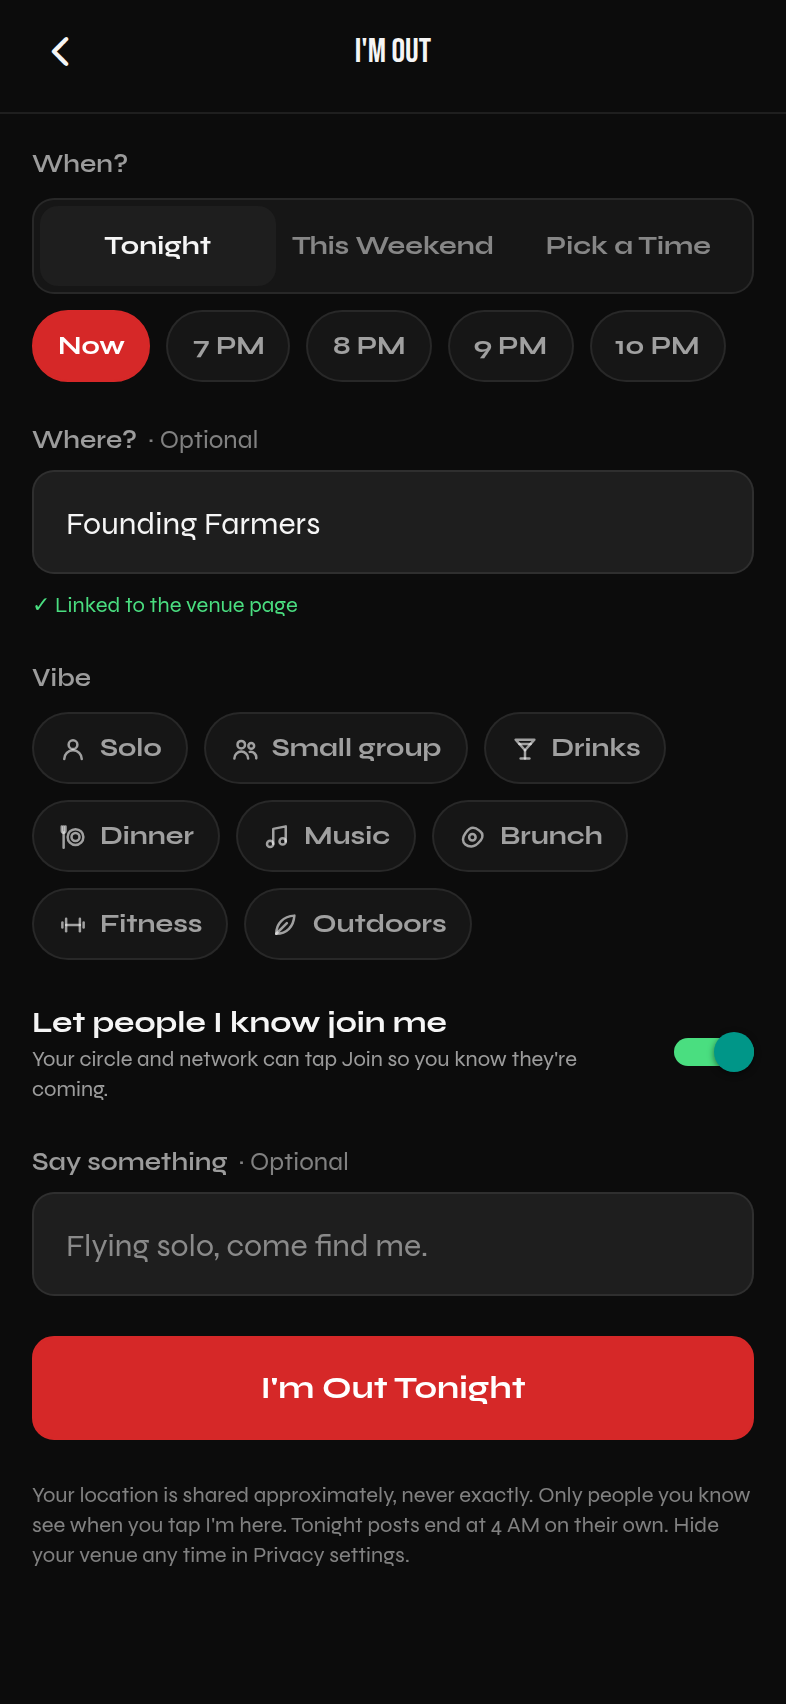
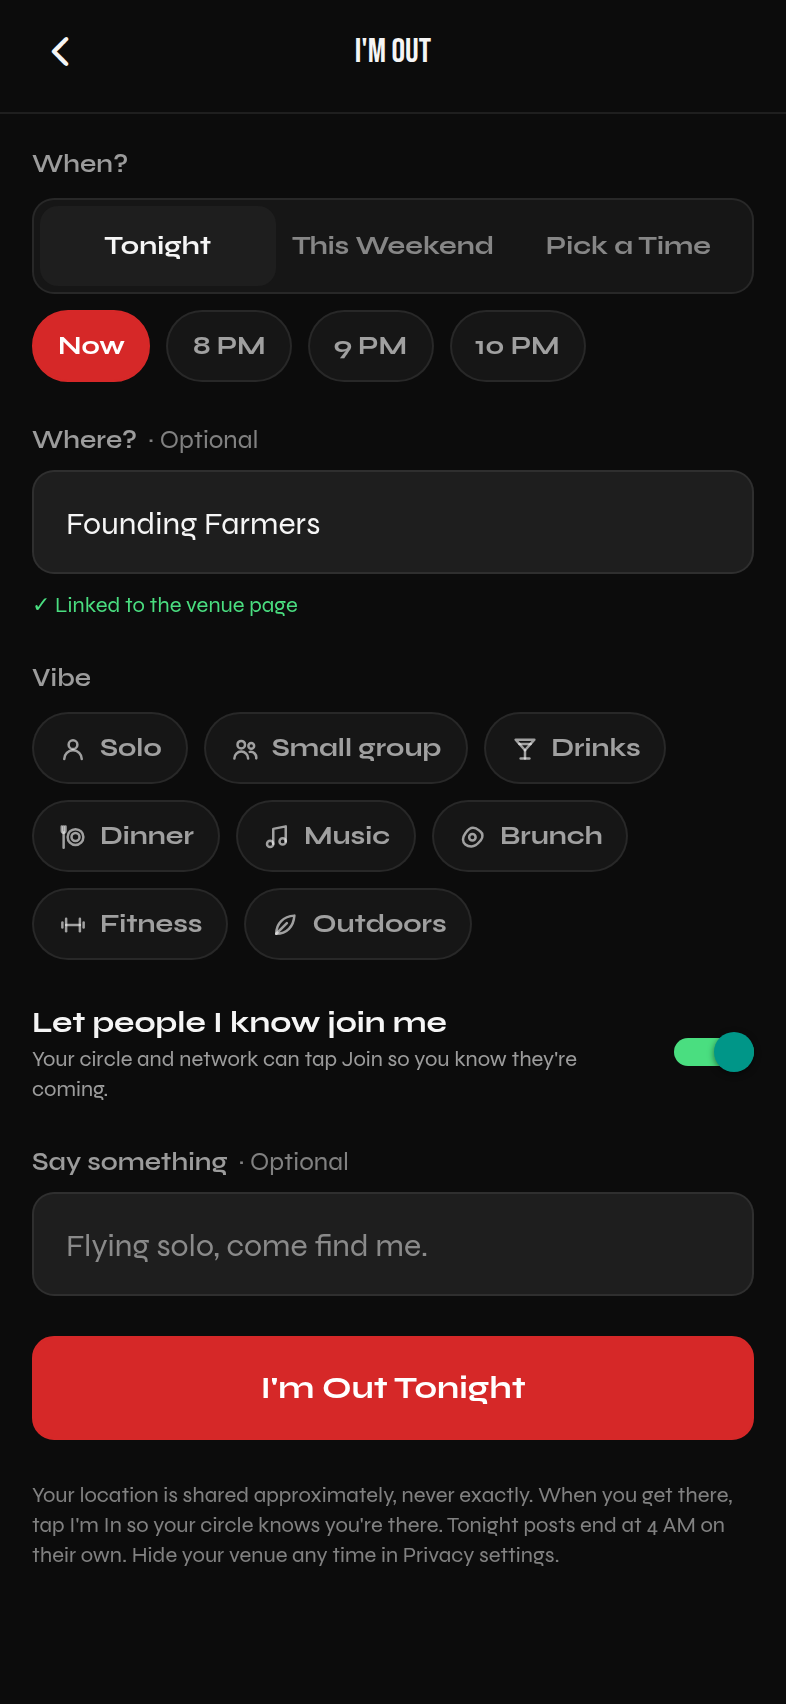
I'm In at a place: drop heading out/home, circle-only by default
- Post your night out, tap I'm In when you arrive; Still in keeps it on,
  it turns off on its own; Edit plans removes it
- Who sees "In now": My Circle (default) or My Network; never strangers,
  only the place, never an exact location (migration 016 + 2 tests)
- Joining: "Maya is joining you"

Claude-Session: https://claude.ai/code/session_01WptbkRHnsyyhfuY3uhsWZK

diff --git a/src/components/tonight/GoingOutList.tsx b/src/components/tonight/GoingOutList.tsx
@@ -2,29 +2,29 @@ import { useRouter } from 'expo-router';
 import { Pressable, View } from 'react-native';
 
 import { PersonRow } from '@/components/circles/PersonRow';
-import { AppText, Badge, Button, Card, GlyphTile } from '@/components/ui';
+import { AppText, Badge, Button, Card, Chip, GlyphTile } from '@/components/ui';
 import { vibeLabel, type Company, type FeedEvent, type FeedPerson } from '@/features/tonight/api';
 import { clockTime, dayTime } from '@/lib/time';
 import { useTheme } from '@/theme';
 
 const degreeLabel = (d: number) => (d === 1 ? '1st' : d === 2 ? '2nd' : null);
 
-/** "Here now · since 9:10 PM" with a live dot. */
+/** "In now · since 9:10 PM" with a live dot. */
 export function HereNow({ since, compact }: { since: string; compact?: boolean }) {
   const t = useTheme();
   return (
     <View style={{ flexDirection: 'row', alignItems: 'center', gap: 6 }}>
       <View style={{ width: 8, height: 8, borderRadius: 4, backgroundColor: t.colors.trust }} />
       <AppText variant="caption" weight="bold" tone="trust">
-        {compact ? 'Here now' : `Here now · since ${clockTime(since)}`}
+        {compact ? 'In now' : `In now · since ${clockTime(since)}`}
       </AppText>
     </View>
   );
 }
 
 /**
- * Someone going out. Shows where, when and vibe, plus "Here now" when they've
- * arrived. People you know can tap Join ("I'm coming").
+ * Someone going out. Shows where, when and vibe, plus "In now" once they've
+ * tapped I'm In at the place. People you know can tap Join.
  */
 export function GoingOutPersonRow({
   person,
@@ -62,7 +62,7 @@ export function GoingOutPersonRow({
             {person.here_since ? <HereNow since={person.here_since} /> : null}
             {company > 0 ? (
               <AppText variant="caption" tone="muted">
-                {company} heading there
+                {company} joining
               </AppText>
             ) : null}
           </View>
@@ -71,7 +71,7 @@ export function GoingOutPersonRow({
       right={
         canJoin ? (
           person.my_join ? (
-            <Button label="Heading" size="md" variant="trust" onPress={() => onJoin(person, null)} accessibilityHint="Tap to cancel" />
+            <Button label="Joining" size="md" variant="trust" onPress={() => onJoin(person, null)} accessibilityHint="Tap to cancel" />
           ) : (
             <Button label="Join" size="md" variant="secondary" onPress={() => onJoin(person, 'heading')} />
           )
@@ -85,36 +85,42 @@ export function GoingOutPersonRow({
   );
 }
 
-/** Your own night out: heading out → here now → heading home, and who's coming. */
+/**
+ * Your night out. Tap I'm In when you get there: the people you choose (your
+ * circle, or your network) see "In now". It turns off on its own after a few
+ * hours; Still in keeps it on.
+ */
 export function MyNightOut({
   me,
   company,
   minutesLeft,
   busy,
-  onHere,
+  onIn,
   onEdit,
-  onEnd,
+  onAudience,
 }: {
   me: FeedPerson;
   company: Company[];
-  /** Minutes until "Here now" lapses (computed by the screen when it loads). */
+  /** Minutes until "In now" turns off (computed by the screen when it loads). */
   minutesLeft: number | null;
   busy: boolean;
-  onHere: () => void;
+  onIn: () => void;
   onEdit: () => void;
-  onEnd: () => void;
+  onAudience: (a: 'circle' | 'network') => void;
 }) {
   const t = useTheme();
   const live = !!me.here_since;
-  const heading = company.filter((c) => c.status === 'heading');
-  const here = company.filter((c) => c.status === 'here');
+  const names = (list: Company[]) => list.map((c) => c.display_name.split(' ')[0]).join(', ');
+  const joining = company.filter((c) => c.status === 'heading');
+  const inToo = company.filter((c) => c.status === 'here');
+  const audience = me.here_audience ?? 'circle';
   return (
     <Card accent={live ? 'trust' : 'primary'}>
       <View style={{ gap: t.space[3] }}>
         <View style={{ flexDirection: 'row', alignItems: 'center', gap: t.space[3] }}>
-          <GlyphTile name={live ? 'live' : 'heading'} size={44} tone={live ? 'trust' : 'primary'} />
+          <GlyphTile name={live ? 'live' : 'moon'} size={44} tone={live ? 'trust' : 'primary'} />
           <View style={{ flex: 1 }}>
-            <AppText weight="bold">{live ? "You're here" : "You're heading out"}</AppText>
+            <AppText weight="bold">{live ? "You're in" : 'Your night out'}</AppText>
             <AppText variant="small" tone="muted" numberOfLines={2}>
               {[me.place, live && me.here_since ? `since ${clockTime(me.here_since)}` : clockTime(me.starts_at)].filter(Boolean).join(' · ')}
             </AppText>
@@ -122,28 +128,30 @@ export function MyNightOut({
         </View>
         {company.length ? (
           <AppText variant="small" tone="trust" weight="bold">
-            {[
-              heading.length ? `${heading.map((c) => c.display_name.split(' ')[0]).join(', ')} heading your way` : null,
-              here.length ? `${here.map((c) => c.display_name.split(' ')[0]).join(', ')} here too` : null,
-            ]
+            {[joining.length ? `${names(joining)} ${joining.length === 1 ? 'is' : 'are'} joining you` : null, inToo.length ? `${names(inToo)} in too` : null]
               .filter(Boolean)
               .join(' · ')}
           </AppText>
-        ) : (
-          <AppText variant="caption" tone="subtle">
-            {me.open_to_join ? 'Your circle and network can tap Join to let you know they’re coming.' : 'Joining is off for tonight.'}
-          </AppText>
-        )}
+        ) : null}
         {live && minutesLeft != null && minutesLeft < 45 ? (
           <AppText variant="caption" tone="sponsored">
-            &quot;Here now&quot; ends in {Math.max(minutesLeft, 0)} min. Still out? Tap Still here.
+            &quot;In now&quot; turns off in {Math.max(minutesLeft, 0)} min. Still there? Tap Still in.
           </AppText>
         ) : null}
-        <Button label={live ? 'Still here' : "I'm here"} size="md" variant="trust" onPress={onHere} loading={busy} />
-        <View style={{ flexDirection: 'row', gap: t.space[2] }}>
-          <Button label="Edit" size="md" variant="secondary" style={{ flex: 1 }} onPress={onEdit} disabled={busy} />
-          <Button label="Heading home" size="md" variant="secondary" style={{ flex: 1 }} onPress={onEnd} disabled={busy} />
+        <Button label={live ? 'Still in' : "I'm In"} size="md" variant="trust" onPress={onIn} loading={busy} />
+        <View style={{ gap: t.space[2] }}>
+          <AppText variant="caption" tone="subtle">
+            {live ? 'Who sees you’re in' : 'When you tap I’m In, who sees it'}
+          </AppText>
+          <View style={{ flexDirection: 'row', gap: t.space[2] }}>
+            <Chip label="My Circle" selected={audience === 'circle'} onPress={() => onAudience('circle')} />
+            <Chip label="My Network" selected={audience === 'network'} onPress={() => onAudience('network')} />
+          </View>
+          <AppText variant="caption" tone="subtle">
+            Only the place is shown, never your exact location. Strangers never see it.
+          </AppText>
         </View>
+        <Button label="Edit plans" size="md" variant="secondary" onPress={onEdit} disabled={busy} />
       </View>
     </Card>
   );

diff --git a/src/types/database.ts b/src/types/database.ts
@@ -393,13 +393,13 @@ isOneToOne: false
                   ]
                 },"going_out_posts": {
                   Row: {
-                    "approx_location": unknown,"arrived_at": string | null,"created_at": string,"event_id": number | null,"expires_at": string,"id": number,"is_hosting": boolean,"is_priority": boolean,"live_until": string | null,"note": string | null,"open_to_join": boolean,"place_text": string | null,"starts_at": string,"user_id": string,"venue_id": number | null,"vibes": (string)[],"when_kind": Database["public"]['Enums']["going_out_when"]
+                    "approx_location": unknown,"arrived_at": string | null,"created_at": string,"event_id": number | null,"expires_at": string,"here_audience": string,"id": number,"is_hosting": boolean,"is_priority": boolean,"live_until": string | null,"note": string | null,"open_to_join": boolean,"place_text": string | null,"starts_at": string,"user_id": string,"venue_id": number | null,"vibes": (string)[],"when_kind": Database["public"]['Enums']["going_out_when"]
                   }
                   Insert: {
-                    "approx_location"?: unknown,"arrived_at"?: string | null,"created_at"?: string,"event_id"?: number | null,"expires_at": string,"id"?: number,"is_hosting"?: boolean,"is_priority"?: boolean,"live_until"?: string | null,"note"?: string | null,"open_to_join"?: boolean,"place_text"?: string | null,"starts_at": string,"user_id": string,"venue_id"?: number | null,"vibes"?: (string)[],"when_kind": Database["public"]['Enums']["going_out_when"]
+                    "approx_location"?: unknown,"arrived_at"?: string | null,"created_at"?: string,"event_id"?: number | null,"expires_at": string,"here_audience"?: string,"id"?: number,"is_hosting"?: boolean,"is_priority"?: boolean,"live_until"?: string | null,"note"?: string | null,"open_to_join"?: boolean,"place_text"?: string | null,"starts_at": string,"user_id": string,"venue_id"?: number | null,"vibes"?: (string)[],"when_kind": Database["public"]['Enums']["going_out_when"]
                   }
                   Update: {
-                    "approx_location"?: unknown,"arrived_at"?: string | null,"created_at"?: string,"event_id"?: number | null,"expires_at"?: string,"id"?: number,"is_hosting"?: boolean,"is_priority"?: boolean,"live_until"?: string | null,"note"?: string | null,"open_to_join"?: boolean,"place_text"?: string | null,"starts_at"?: string,"user_id"?: string,"venue_id"?: number | null,"vibes"?: (string)[],"when_kind"?: Database["public"]['Enums']["going_out_when"]
+                    "approx_location"?: unknown,"arrived_at"?: string | null,"created_at"?: string,"event_id"?: number | null,"expires_at"?: string,"here_audience"?: string,"id"?: number,"is_hosting"?: boolean,"is_priority"?: boolean,"live_until"?: string | null,"note"?: string | null,"open_to_join"?: boolean,"place_text"?: string | null,"starts_at"?: string,"user_id"?: string,"venue_id"?: number | null,"vibes"?: (string)[],"when_kind"?: Database["public"]['Enums']["going_out_when"]
                   }
                   Relationships: [
                     {
@@ -1460,6 +1460,9 @@ isOneToOne: false
                            },
 "set_checkin_interval":
 { Args: { "p_minutes": number }; Returns: undefined
+                           },
+"set_here_audience":
+{ Args: { "p_audience": string,"p_post": number }; Returns: undefined
                            },
 "set_open_to_join":
 { Args: { "p_open": boolean,"p_post": number }; Returns: undefined

diff --git a/src/app/(app)/(tabs)/tonight.tsx b/src/app/(app)/(tabs)/tonight.tsx
@@ -10,14 +10,13 @@ import { fetchGroups, type GroupsOverview } from '@/features/circles/api';
 import { useApproxLocation } from '@/features/location/useApproxLocation';
 import { usePlan } from '@/features/plan/usePlan';
 import {
-  deleteGoingOut,
-  endLive,
   fetchCompany,
   fetchGoingOut,
   fetchMyGroupEvents,
   imHere,
   joinGoingOut,
   rsvp,
+  setHereAudience,
   type Company,
   type FeedEvent,
   type FeedPerson,
@@ -128,11 +127,13 @@ export default function Tonight() {
     }
   }
 
-  const onHere = () => act(() => imHere(location), mine?.here_since ? 'Still here. Your circle can see you’re out.' : 'You’re here. Your circle can see you’re out.');
-  const onEnd = () =>
-    act(() => (mine && mine.when_kind !== 'tonight' ? deleteGoingOut(mine.post_id) : endLive()), 'Heading home. Get there safe.');
+  const audienceLabel = (a: string | null | undefined) => (a === 'network' ? 'your network' : 'your circle');
+  const onIn = () =>
+    act(() => imHere(location), mine?.here_since ? `Still in. ${audienceLabel(mine.here_audience)} can see it.` : `You're in. ${audienceLabel(mine?.here_audience)} can see it.`);
+  const onAudience = (a: 'circle' | 'network') =>
+    mine ? act(() => setHereAudience(mine.post_id, a), a === 'network' ? 'Your network can see when you’re in' : 'Only your circle can see when you’re in') : undefined;
   const onJoin = (p: FeedPerson, status: 'heading' | null) =>
-    act(() => joinGoingOut(p.post_id, status), status ? `${p.display_name.split(' ')[0]} knows you’re coming` : 'Cancelled');
+    act(() => joinGoingOut(p.post_id, status), status ? `${p.display_name.split(' ')[0]} knows you’re joining` : 'Cancelled');
 
   return (
     <ScrollView
@@ -217,7 +218,7 @@ export default function Tonight() {
       ) : (
         <>
           {mine && !weekend ? (
-            <MyNightOut me={mine} company={company} minutesLeft={minutesLeft} busy={busy} onHere={onHere} onEdit={editMine} onEnd={onEnd} />
+            <MyNightOut me={mine} company={company} minutesLeft={minutesLeft} busy={busy} onIn={onIn} onEdit={editMine} onAudience={onAudience} />
           ) : mine ? (
             <Card accent="primary">
               <View style={{ flexDirection: 'row', alignItems: 'center', gap: t.space[3] }}>

diff --git a/src/components/home/GoingOutStrip.tsx b/src/components/home/GoingOutStrip.tsx
@@ -5,7 +5,7 @@ import { AppText, Avatar, Section } from '@/components/ui';
 import type { TonightPerson } from '@/features/tonight/api';
 import { useTheme } from '@/theme';
 
-/** "Going out tonight": your I'm Out button first, then people in your network who are out (here-now first). */
+/** "Going out tonight": your I'm Out button first, then people in your network who are out (people who are in now first). */
 export function GoingOutStrip({ people, amLive }: { people: TonightPerson[]; amLive: boolean }) {
   const t = useTheme();
   const router = useRouter();
@@ -34,14 +34,14 @@ export function GoingOutStrip({ people, amLive }: { people: TonightPerson[]; amL
             </AppText>
           </View>
           <AppText variant="caption" tone={amLive ? 'trust' : 'muted'} numberOfLines={1}>
-            {meHere ? 'Here now' : amLive ? 'Heading out' : 'You'}
+            {meHere ? 'In now' : amLive ? 'Tonight' : 'You'}
           </AppText>
         </Pressable>
         {others.map((p) => (
           <Pressable
             key={p.user_id}
             accessibilityRole="link"
-            accessibilityLabel={`${p.display_name}${p.here_since ? ', here now' : ''}${p.place ? ` at ${p.place}` : ', going out tonight'}`}
+            accessibilityLabel={`${p.display_name}${p.here_since ? ', in now' : ''}${p.place ? ` at ${p.place}` : ', going out tonight'}`}
             onPress={() => router.push({ pathname: '/people/[id]', params: { id: p.user_id } })}
             style={{ alignItems: 'center', gap: 6, width: 64 }}>
             <View>
@@ -63,7 +63,7 @@ export function GoingOutStrip({ people, amLive }: { people: TonightPerson[]; amL
               ) : null}
             </View>
             <AppText variant="caption" tone={p.here_since ? 'trust' : 'muted'} numberOfLines={1}>
-              {p.here_since ? 'Here now' : p.display_name.split(' ')[0]}
+              {p.here_since ? 'In now' : p.display_name.split(' ')[0]}
             </AppText>
           </Pressable>
         ))}

diff --git a/src/app/(app)/tonight/post.tsx b/src/app/(app)/tonight/post.tsx
@@ -157,7 +157,7 @@ export default function PostGoingOut() {
                 <AppText variant="small" style={{ flex: 1 }}>
                   {[r.when_kind === 'tonight' ? 'Tonight' : dayTime(r.starts_at), r.place].filter(Boolean).join(' · ')}
                 </AppText>
-                <Button label={r.when_kind === 'tonight' ? 'End' : 'Remove'} size="md" variant="ghost" onPress={() => remove(r.id)} disabled={busy} />
+                <Button label="Remove" size="md" variant="ghost" onPress={() => remove(r.id)} disabled={busy} />
               </View>
             ))}
           </View>
@@ -253,7 +253,7 @@ export default function PostGoingOut() {
         <TextField label="Say something" optional value={note} onChangeText={setNote} maxLength={200} placeholder="Flying solo, come find me." />
         <Button label={when === 'tonight' ? "I'm Out Tonight" : 'Post my plans'} onPress={submit} loading={busy} disabled={!canPost} />
         <AppText variant="caption" tone="subtle">
-          Your location is shared approximately, never exactly. Only people you know see when you tap I&apos;m here. Tonight posts end at 4 AM on their own. Hide your venue any time in Privacy
+          Your location is shared approximately, never exactly. When you get there, tap I&apos;m In so your circle knows you&apos;re there. Tonight posts end at 4 AM on their own. Hide your venue any time in Privacy
           settings.
         </AppText>
       </Screen>

diff --git a/src/features/tonight/api.ts b/src/features/tonight/api.ts
@@ -71,10 +71,12 @@ export type FeedPerson = {
   distance_mi: number | null;
   lat: number | null;
   lng: number | null;
-  /** Set when they tapped "I'm here" (only shown for you and people you know). */
+  /** Set when they tapped "I'm In" at the place (only shown to the audience they chose). */
   here_since: string | null;
   /** Your own post only: when "Here now" lapses unless you tap "Still here". */
   live_until: string | null;
+  /** Your own post only: who sees that you're in ("circle" = 1st degree, "network" = 1st + 2nd). */
+  here_audience: 'circle' | 'network' | null;
   open_to_join: boolean;
   heading_count: number;
   joined_here_count: number;
@@ -203,6 +205,11 @@ export async function imHere(coords?: { lat: number; lng: number } | null) {
 export async function joinGoingOut(postId: number, status: 'heading' | 'here' | null) {
   // null cancels (sent as SQL null; leaving it out would mean the default, 'heading').
   const { error } = await supabase.rpc('join_going_out', { p_post: postId, p_status: status as 'heading' });
+  if (error) throw error;
+}
+
+export async function setHereAudience(postId: number, audience: 'circle' | 'network') {
+  const { error } = await supabase.rpc('set_here_audience', { p_post: postId, p_audience: audience });
   if (error) throw error;
 }
 

diff --git a/PROGRESS.md b/PROGRESS.md
@@ -51,10 +51,14 @@ Right now, texting your trusted contacts works by opening your own Messages app,
 - **Symbols:** every emoji in the app is replaced with a custom symbol set drawn for I'm In (`src/components/ui/Glyph.tsx`). It covers categories, vibes, events, groups, tiers, trust, status and safety, all on one grid with one line weight. Avatars show initials or a photo.
 - **Database:** tier symbols are seed, loop, link, bolt and crown. Groups, events and venues only accept symbol names, and notifications contain no emoji.
 
-## ✅ I'm Out: Go Live became a real live feature (at Dominique's request)
-- **Heading out → Here now → Heading home.** Tap **I'm here** when you arrive. "Here now" lasts 3 hours, and **Still here** renews it.
-- **Here now is only shown to your circle and network**, never to strangers nearby.
-- **Join ("I'm coming"):** people you know tap Join. You're told who's heading your way and see them on your card. You can turn joining off for the night.
+## ✅ I'm In at a place (Go Live, reworked at Dominique's request)
+- Post that you're going out (the **I'm Out** button), then tap **I'm In** when you get there. People who can see it get "In now · since 9:10 PM".
+- It turns off on its own after 3 hours. **Still in** keeps it on, and **Edit plans** removes it. There's no "heading out" or "heading home".
+- **Privacy:** because "In now" says where you are right now, you choose who sees it:
+  - **My Circle** (1st degree, the default) or **My Network** (1st and 2nd).
+  - Strangers and blocked members never see it.
+  - Only the place is shown, never your exact location.
+- **Join:** people you know tap Join, and you see "Maya is joining you". You can turn joining off for the night.
 - Screenshots are in `docs/screenshots/im-out`.
 
 ---
@@ -255,7 +259,8 @@ Premium with RevenueCat (ask before connecting a paid service), sponsored and fe
 | 2026-09-29 | Passing on an intro only tells the connector, with no details | "Passing is always graceful" |
 | 2026-09-29 | "People you might click with" is rule-based (mutual friends plus shared groups) until the Phase 7 AI version, and carries no ✦ label | Never label something as AI when it isn't |
 | 2026-10-04 | **No emojis anywhere.** The app draws its own symbols. | Dominique |
-| 2026-10-04 | **Go Live is now I'm Out**, with Heading out → Here now → Heading home and Join. Here now is only for your circle and network. | Dominique asked whether Go Live was a good live feature; as built it was only a status post |
+| 2026-10-04 | Go Live became **I'm In at a place**: post your plans, tap I'm In when you arrive, and people can Join. No heading out or heading home. | Dominique |
+| 2026-10-05 | "In now" is seen by **your circle by default**; you can widen it to your network. Never strangers, never an exact location. | Dominique flagged it may be a privacy issue |
 | 2026-10-04 | Safety texts open the phone's own Messages app (you tap Send) until Twilio is set up | Decision C7: safety is not the place to fake an automatic text |
 | 2026-10-04 | A counter-proposal keeps the original spot unless a new one is given | Suggesting a new time shouldn't silently drop the place |
 | 2026-10-01 | Creating a group needs a **verified phone** (config `group_create_requires`: none / phone / photo) | Photo verification isn't built until Phase 6; a phone is a real barrier to fake groups in the meantime |

diff --git a/docs/PHASE-1-PHONE-CHECK.md b/docs/PHASE-1-PHONE-CHECK.md
@@ -42,7 +42,7 @@ Open the app in **Expo Go** on your iPhone, then go down the list. Anything that
 - [ ] With a friend: they ask to join your group, you approve it, and you both open **💬 Chat**. Messages show up on both phones right away.
 
 ## I'm Out and Phase 5 additions (needs a friend)
-- [ ] Tonight → **I'm Out**, pick a place, post. Tap **I'm here**: your friend sees "Here now" on Tonight and Home. They tap **Join**, and you see "… heading your way".
+- [ ] Tonight → **I'm Out**, pick a place, post. Tap **I'm In**: your friend (in your circle) sees "In now" on Tonight and Home. They tap **Join**, and you see "… is joining you".
 - [ ] Messages → open a chat → **Ask on a Date**. Your friend opens it and taps **Suggest a Different Time**, then you **Accept**.
 - [ ] Settings/menu → **Safety & Check In** → add yourself as a trusted contact (another phone number you have).
 - [ ] Menu → **I'm On a Date** → pick your friend → **Activate**. Your friend opens the notification and taps **I'm here: confirm**. It turns on only when you're within 1 mile.
